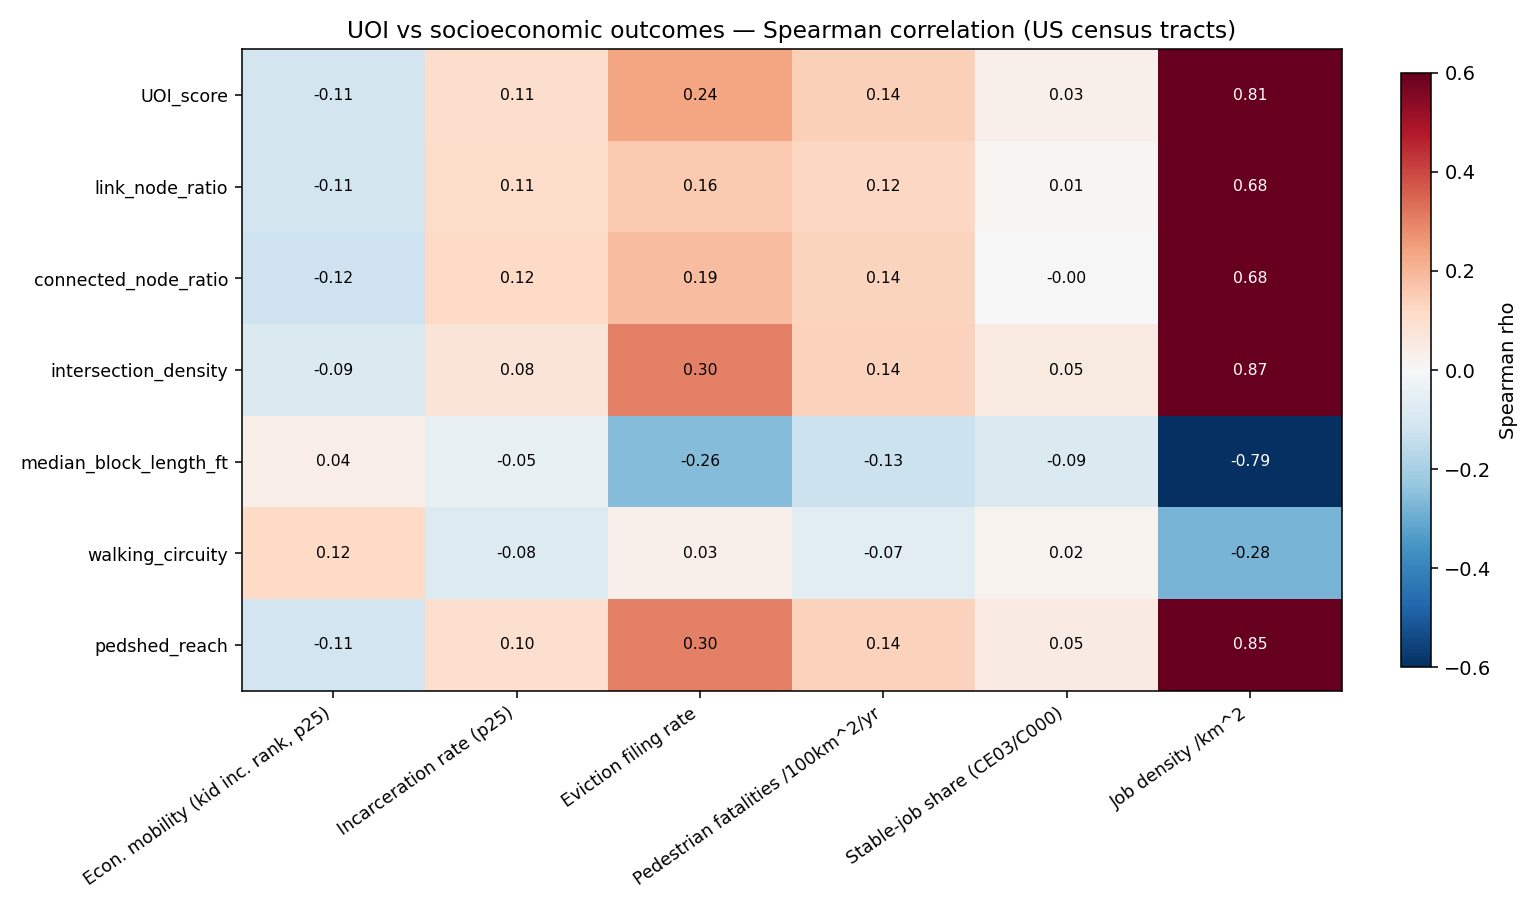
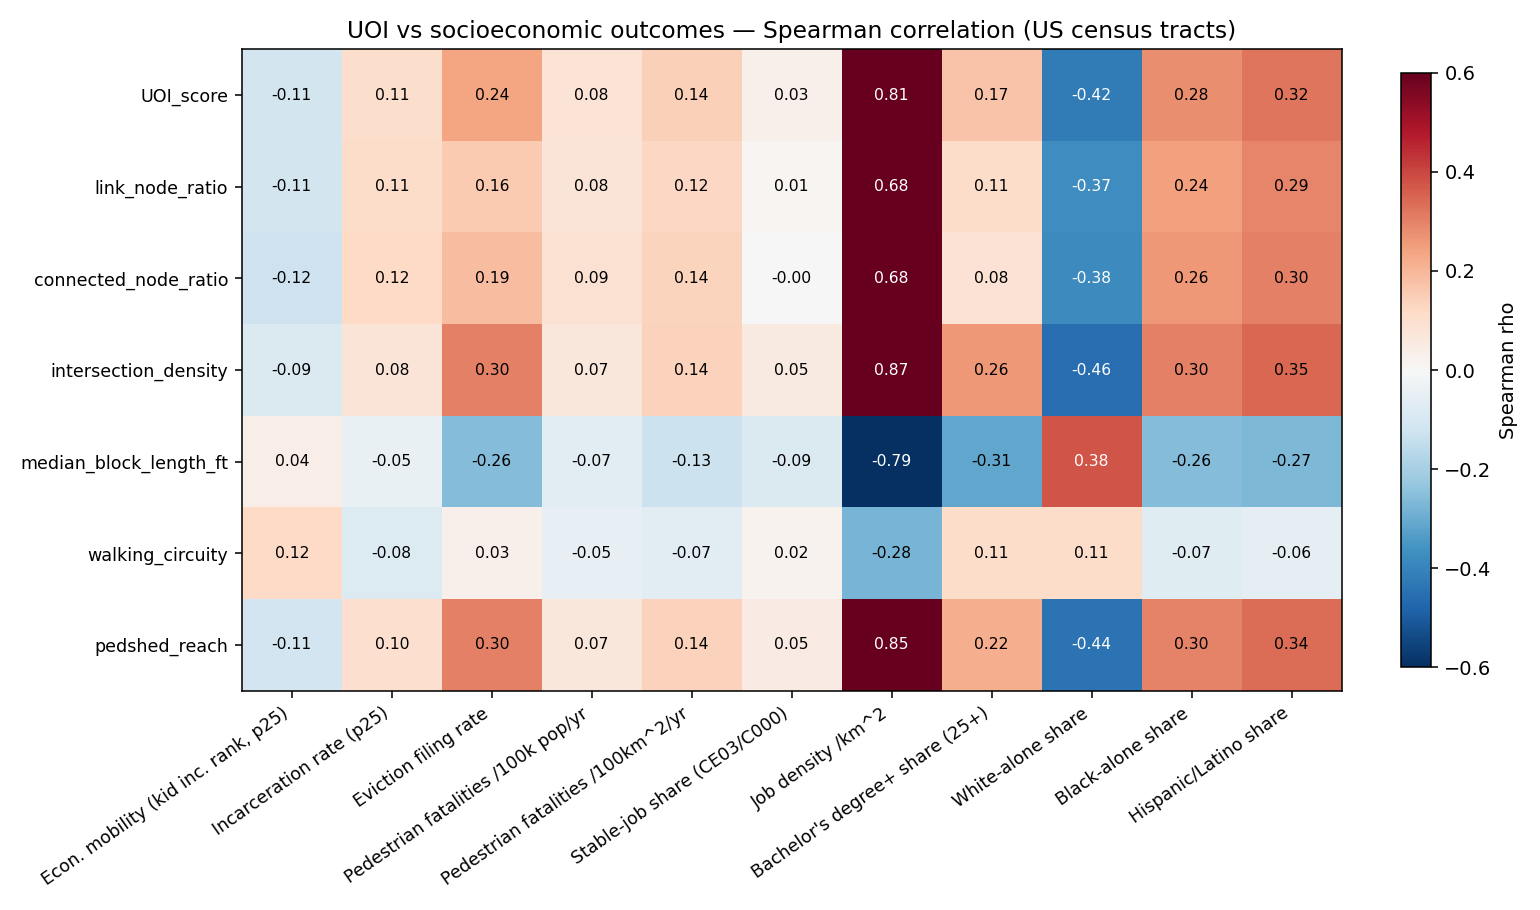
Stage-8: add ACS race+education + population-normalized pedestrian rate
- 08b_acs.py: fetch ACS5 race (B02001/B03003) + education (B15003
  bachelor's+ share) + population per tract via Census API; merge into
  tract_panel (now 84,395 x 24 cols). Adds ped_fatal_per_100k_pop_yr
  (removes the per-area density confound).
- 08c_correlate.py: outcomes now include race/education/per-capita ped;
  scatter grid sizes dynamically.
- Findings: UOI's strongest social correlate is race (white share rho
  -0.42, hispanic +0.32, black +0.28); bachelor's+ +0.17; per-capita
  pedestrian fatality drops to +0.08 (was +0.14 per-area = density artifact).

diff --git a/08b_acs.py b/08b_acs.py
@@ -1,0 +1,82 @@
+#!/usr/bin/env python3
+"""Stage 8b (ACS add-on): fetch race + educational attainment per tract from the
+Census ACS5 API and merge into data/outputs/tract_panel.parquet. Also adds a
+POPULATION-normalized pedestrian-fatality rate (removes the per-area density
+confound in the FARS metric).
+
+Usage:
+    python 08b_acs.py --key YOUR_CENSUS_API_KEY [--year 2022]
+"""
+import argparse, time, io
+from pathlib import Path
+import numpy as np
+import pandas as pd
+import requests
+
+ROOT = Path("/home/wnlab/CK_street")
+OUT = ROOT / "data/outputs"
+
+# 50 states + DC(11) + PR(72)
+STATES = [f"{i:02d}" for i in range(1, 57) if i not in (3, 7, 14, 43, 52)] + ["72"]
+
+VARS = ["B01001_001E",                     # total population
+        "B02001_002E", "B02001_003E",      # white alone, black alone
+        "B03003_001E", "B03003_003E",      # hisp denom, hispanic/latino
+        "B15003_001E",                     # pop 25+ (education denom)
+        "B15003_022E", "B15003_023E", "B15003_024E", "B15003_025E"]  # bachelor's+
+
+def fetch(year, key):
+    rows = []
+    for st in STATES:
+        url = (f"https://api.census.gov/data/{year}/acs/acs5"
+               f"?get={','.join(VARS)}&for=tract:*&in=state:{st}&key={key}")
+        for attempt in range(4):
+            r = requests.get(url, timeout=60)
+            if r.status_code == 200 and r.text.lstrip().startswith("["):
+                break
+            time.sleep(2)
+        else:
+            print(f"  state {st}: FAILED ({r.status_code})"); continue
+        j = r.json()
+        df = pd.DataFrame(j[1:], columns=j[0])
+        rows.append(df)
+        print(f"  state {st}: {len(df)} tracts", flush=True)
+    return pd.concat(rows, ignore_index=True)
+
+def main():
+    ap = argparse.ArgumentParser()
+    ap.add_argument("--key", required=True)
+    ap.add_argument("--year", default="2022")
+    a = ap.parse_args()
+
+    raw = fetch(a.year, a.key)
+    for v in VARS:
+        raw[v] = pd.to_numeric(raw[v], errors="coerce")
+    raw["GEOID"] = raw["state"] + raw["county"] + raw["tract"]
+
+    pop = raw["B01001_001E"]
+    acs = pd.DataFrame({"GEOID": raw["GEOID"], "population": pop})
+    acs["pct_white"] = 100 * raw["B02001_002E"] / pop.replace(0, np.nan)
+    acs["pct_black"] = 100 * raw["B02001_003E"] / pop.replace(0, np.nan)
+    acs["pct_hispanic"] = 100 * raw["B03003_003E"] / raw["B03003_001E"].replace(0, np.nan)
+    bach = raw[["B15003_022E", "B15003_023E", "B15003_024E", "B15003_025E"]].sum(axis=1)
+    acs["pct_bachelor_plus"] = 100 * bach / raw["B15003_001E"].replace(0, np.nan)
+
+    panel = pd.read_parquet(OUT / "tract_panel.parquet")
+    panel = panel.drop(columns=[c for c in acs.columns if c != "GEOID" and c in panel], errors="ignore")
+    panel = panel.merge(acs, on="GEOID", how="left")
+
+    # population-normalized pedestrian fatality rate (per 100k residents per yr)
+    if "ped_fatalities_5yr" in panel:
+        panel["ped_fatal_per_100k_pop_yr"] = (panel["ped_fatalities_5yr"] / 5.0
+                                              / panel["population"].replace(0, np.nan) * 1e5)
+
+    panel.to_parquet(OUT / "tract_panel.parquet", index=False)
+    panel.to_csv(OUT / "tract_panel.csv", index=False)
+    print(f"\nmerged ACS into panel: {len(panel)} tracts x {len(panel.columns)} cols")
+    print(f"  population matched: {panel['population'].notna().sum()}")
+    print(panel[["pct_white", "pct_black", "pct_hispanic", "pct_bachelor_plus",
+                 "ped_fatal_per_100k_pop_yr"]].describe().round(2).to_string())
+
+if __name__ == "__main__":
+    main()

diff --git a/08c_correlate.py b/08c_correlate.py
@@ -27,14 +27,20 @@ UOI = ["UOI_score", "link_node_ratio", "connected_node_ratio",
        "intersection_density", "median_block_length_ft",
        "walking_circuity", "pedshed_reach"]
 # outcome: (column, friendly label, "good" direction higher/lower)
-OUT = [
+OUT_ALL = [
     ("mobility_kfr_p25",        "Econ. mobility (kid inc. rank, p25)", "higher"),
     ("incarceration_p25",       "Incarceration rate (p25)",            "lower"),
     ("eviction_filing_rate",    "Eviction filing rate",                "lower"),
+    ("ped_fatal_per_100k_pop_yr", "Pedestrian fatalities /100k pop/yr","lower"),
     ("ped_fatal_per_100km2_yr", "Pedestrian fatalities /100km^2/yr",   "lower"),
     ("stable_job_share",        "Stable-job share (CE03/C000)",        "higher"),
     ("job_density_per_sqkm",    "Job density /km^2",                    "higher"),
+    ("pct_bachelor_plus",       "Bachelor's degree+ share (25+)",      "higher"),
+    ("pct_white",               "White-alone share",                   "n/a"),
+    ("pct_black",               "Black-alone share",                   "n/a"),
+    ("pct_hispanic",            "Hispanic/Latino share",               "n/a"),
 ]
+OUT = [o for o in OUT_ALL if o[0] in p.columns]   # only outcomes present in the panel
 
 # ---------------- Spearman matrix ----------------
 rho = pd.DataFrame(index=UOI, columns=[o[0] for o in OUT], dtype=float)
@@ -68,8 +74,13 @@ fig.tight_layout(); fig.savefig(RES / "fig_corr_heatmap.png", dpi=140); plt.clos
 print(f"saved {RES/'fig_corr_heatmap.png'}")
 
 # ---------------- scatter panel: UOI_score vs each outcome ----------------
-fig, axes = plt.subplots(2, 3, figsize=(16, 9), facecolor="white")
-for ax, (col, lab, _) in zip(axes.ravel(), OUT):
+ncol = 3
+nrow = int(np.ceil(len(OUT) / ncol))
+fig, axes = plt.subplots(nrow, ncol, figsize=(5.3 * ncol, 4.5 * nrow), facecolor="white")
+axes = np.atleast_1d(axes).ravel()
+for ax in axes[len(OUT):]:
+    ax.axis("off")
+for ax, (col, lab, _) in zip(axes, OUT):
     d = p[["UOI_score", col]].dropna()
     if col in ("eviction_filing_rate", "ped_fatal_per_100km2_yr", "job_density_per_sqkm"):
         d = d[d[col] <= d[col].quantile(0.99)]          # clip extreme tail for display